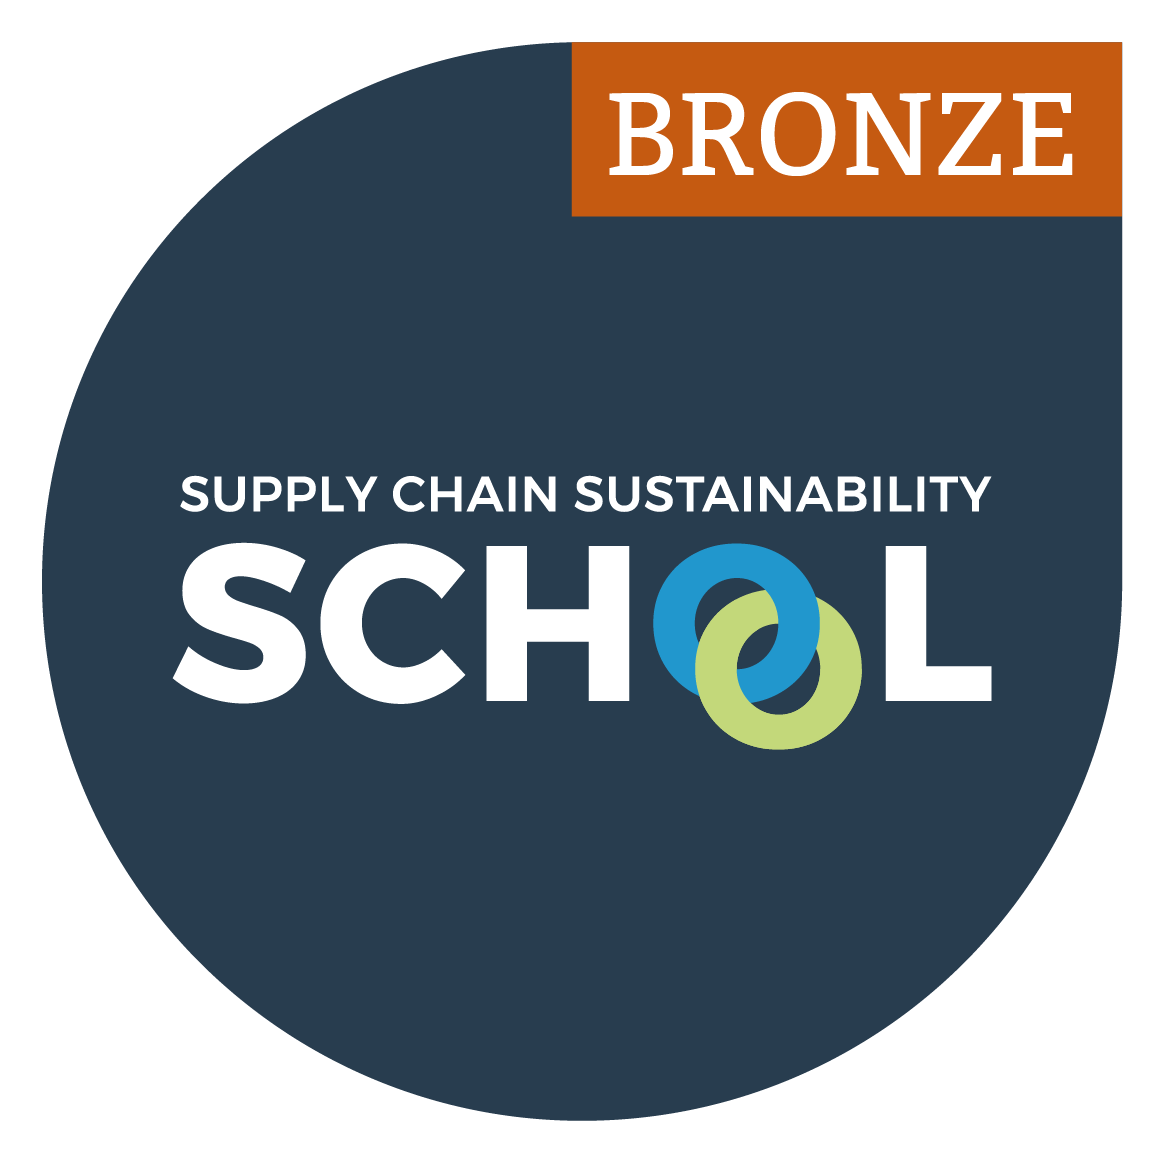
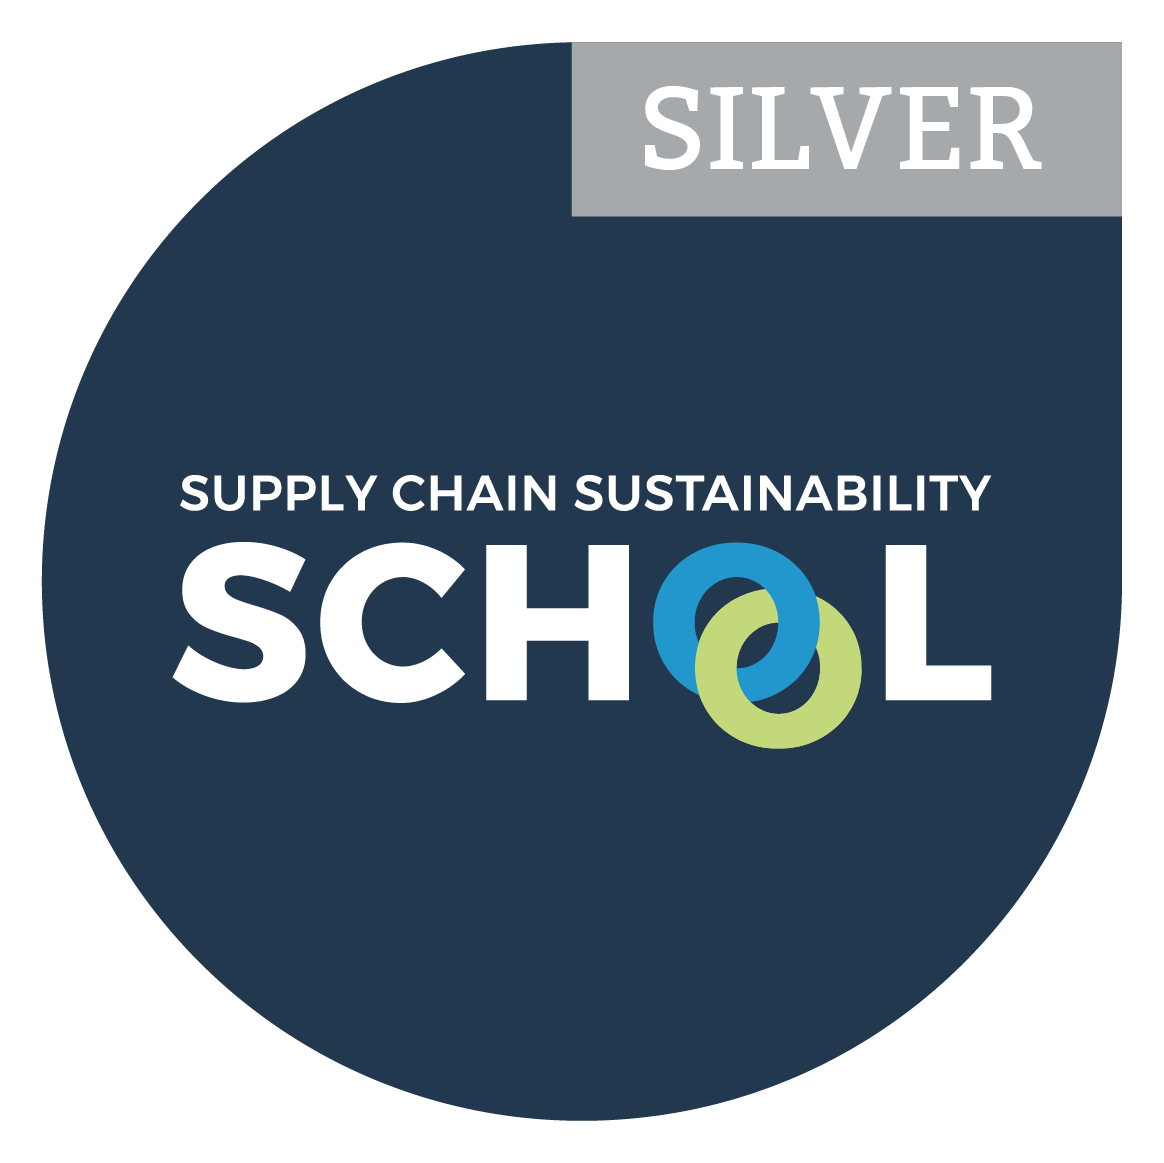
replaced accreditation to silver

diff --git a/app/page.js b/app/page.js
@@ -28,11 +28,14 @@ export default function Home() {
         alt={'hero image desktop'}
         quality={100}
       />
-      <div className={styles.introText}>Hartcrown Ltd build more than structures. We build lasting relationships with our clients through integrity, transparency, and superior workmanship.</div>
+      <div className={styles.introText}>Hartcrown Ltd was <span>Established in 1991</span>. We build lasting relationships with our clients through integrity, transparency, and superior workmanship.</div>
       
       {/* CTA */}
-      <div className={styles.contactBTNContainer}>
+      <div className={styles.contactBTNContainerMobile}>
           <Link href="tel:02072529380" className={styles.linkBTN}>Contact</Link>
+      </div>
+      <div className={styles.contactBTNContainerDesktop}>
+          <Link href={'#'} className={styles.linkBTN}>0207 252 9380</Link>
       </div>
       
       <div className={styles.tagLineTop}>Groundwork Specialists with over 35 Years Experience</div>
@@ -54,7 +57,7 @@ export default function Home() {
         Find out about Hartcrown Ltd
       </div>
 
-      <div className={styles.contactBTNContainer}>
+      <div className={styles.contactBTNContainerView}>
           <Link href="/about" className={styles.linkBTN}>About</Link>
       </div>
 
@@ -74,7 +77,7 @@ export default function Home() {
       <div className={styles.tagLine}>
         View our Current Projects 
       </div>
-      <div className={styles.contactBTNContainer}>
+      <div className={styles.contactBTNContainerView}>
           <Link href="/current" className={styles.linkBTN}>View</Link>
       </div>
 
@@ -92,7 +95,7 @@ export default function Home() {
       <div className={styles.tagLine}>
         View our Previous Projects 
       </div>
-      <div className={styles.contactBTNContainer}>
+      <div className={styles.contactBTNContainerView}>
           <Link href="/previous" className={styles.linkBTN}>View</Link>
       </div>
 
@@ -110,7 +113,7 @@ export default function Home() {
       <div className={styles.tagLine}>
         Who we Sponsor
       </div>
-      <div className={styles.contactBTNContainer}>
+      <div className={styles.contactBTNContainerView}>
           <Link href="/sponsorship" className={styles.linkBTN}>View</Link>
       </div>
 
@@ -128,7 +131,7 @@ export default function Home() {
       <div className={styles.tagLine}>
         Visit our Contact Page
       </div>
-      <div className={styles.contactBTNContainer}>
+      <div className={styles.contactBTNContainerView}>
           <Link href="/contact" className={styles.linkBTN}>Contact</Link>
       </div>
 

diff --git a/app/page.module.css b/app/page.module.css
@@ -38,6 +38,10 @@
   color: #383838;
 }
 
+.introText span {
+  font-weight: 600;
+}
+
 .tagLineCurrent {
   margin-bottom: 20px;
   padding: 20px;
@@ -68,7 +72,8 @@
 
 
 /* CTA BUTTONS */
-.contactBTNContainer {
+.contactBTNContainerMobile {
+  display: block;
   margin: 10px auto;
   padding: 10px;
   max-width: 200px;
@@ -77,6 +82,22 @@
   text-align: center;
   border-radius: 22px;
   background: #243b8e;
+}
+
+.contactBTNContainerView {
+  display: block;
+  margin: 10px auto;
+  padding: 10px;
+  max-width: 200px;
+  font-size: 1.5rem;
+  font-weight: 500;
+  text-align: center;
+  border-radius: 22px;
+  background: #243b8e;
+}
+
+.contactBTNContainerDesktop {
+  display: none;
 }
 
 
@@ -101,5 +122,21 @@
    display: block;
    margin: 60px auto 30px auto;
    width: 60%; 
+  }
+
+  .contactBTNContainerDesktop {
+    display: block;
+    margin: 10px auto;
+    padding: 10px;
+    max-width: 200px;
+    font-size: 1.5rem;
+    font-weight: 500;
+    text-align: center;
+    border-radius: 22px;
+    background: #243b8e;
+  }
+
+  .contactBTNContainerMobile {
+    display: none;
   }
 }

diff --git a/app/contact/contact.module.css b/app/contact/contact.module.css
@@ -60,6 +60,10 @@
       cursor: pointer;
       -webkit-filter: brightness(100%);
     }
+
+    .headerTitle {
+      margin: 40px;       
+    }
     
     .heroBtn{
       display: none;
@@ -67,7 +71,7 @@
 
     .contactText {
       width: 70%;
-      margin: 0px auto 60px auto;
+      margin: 40px auto 60px auto;
       font-size: 1.3rem;
       line-height: 1.5;
     }

diff --git a/app/contact/page.js b/app/contact/page.js
@@ -38,7 +38,7 @@ export default function Contact() {
           WHATSAPP
         </Link>
       </div>
-      <div className={styles.heroBtnDesktop}>07889 029 855</div>
+      <div className={styles.heroBtnDesktop}>0207 252 9380</div>
     </div>
   )
 }

diff --git a/app/components/Footer.js b/app/components/Footer.js
@@ -30,7 +30,7 @@ export default function Footer() {
           src={'/accreditations/acc4.png'}
           width={600}
           height={600}
-          alt={'About us'}
+          alt={'Silver'}
           quality={100}
         />
         <Image
